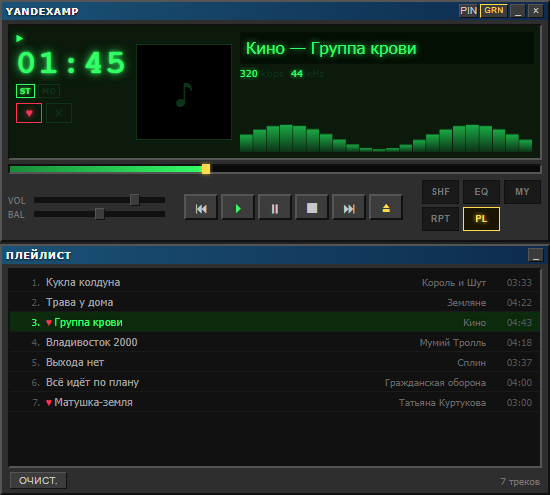
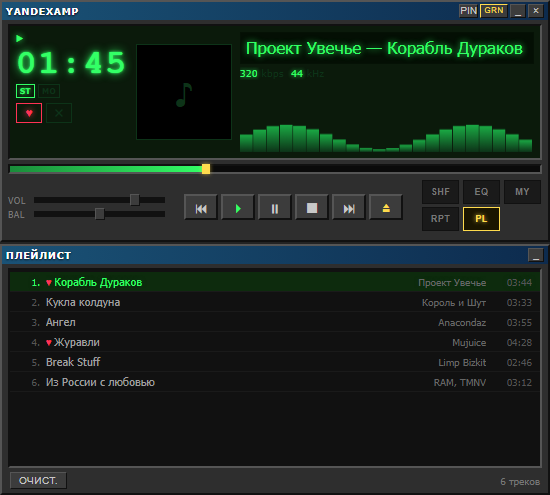
README preview: real demo playlist

Changed region(s): [[0.0, 0.5455, 0.9891, 0.8182], [0.4327, 0.0606, 0.9582, 0.1212], [0.9273, 0.7273, 0.9582, 0.8182]]

diff --git a/renderer/app.js b/renderer/app.js
@@ -121,20 +121,19 @@ function runDemoMode() {
   $('login-screen').classList.add('hidden')
   $('player-screen').classList.remove('hidden')
   state.playlist = [
-    { id: 'd1', title: 'Кукла колдуна',        artist: 'Король и Шут',  album: '', duration: 213000 },
-    { id: 'd2', title: 'Трава у дома',          artist: 'Земляне',       album: '', duration: 262000 },
-    { id: 'd3', title: 'Группа крови',          artist: 'Кино',          album: '', duration: 283000 },
-    { id: 'd4', title: 'Владивосток 2000',      artist: 'Мумий Тролль',  album: '', duration: 258000 },
-    { id: 'd5', title: 'Выхода нет',            artist: 'Сплин',         album: '', duration: 217000 },
-    { id: 'd6', title: 'Всё идёт по плану',     artist: 'Гражданская оборона', album: '', duration: 240000 },
-    { id: 'd7', title: 'Матушка-земля',         artist: 'Татьяна Куртукова', album: '', duration: 180000 },
+    { id: 'd1', title: 'Корабль Дураков',       artist: 'Проект Увечье', album: '', duration: 224000 },
+    { id: 'd2', title: 'Кукла колдуна',         artist: 'Король и Шут',  album: '', duration: 213000 },
+    { id: 'd3', title: 'Ангел',                 artist: 'Anacondaz',     album: '', duration: 235000 },
+    { id: 'd4', title: 'Журавли',               artist: 'Mujuice',       album: '', duration: 268000 },
+    { id: 'd5', title: 'Break Stuff',           artist: 'Limp Bizkit',   album: '', duration: 166000 },
+    { id: 'd6', title: 'Из России с любовью',   artist: 'RAM, TMNV',     album: '', duration: 192000 },
   ]
-  state.currentIndex = 2
-  state.likedIds = new Set(['d3', 'd7'])
+  state.currentIndex = 0
+  state.likedIds = new Set(['d1', 'd4'])
   renderPlaylist()
   updatePlCount()
-  highlightPlaylistItem(2)
-  setTrackTitle('Кино — Группа крови')
+  highlightPlaylistItem(0)
+  setTrackTitle('Проект Увечье — Корабль Дураков')
   setPlayStatus('▶')
   updateLikeUI()
   updateSeekbarUI(0.37)